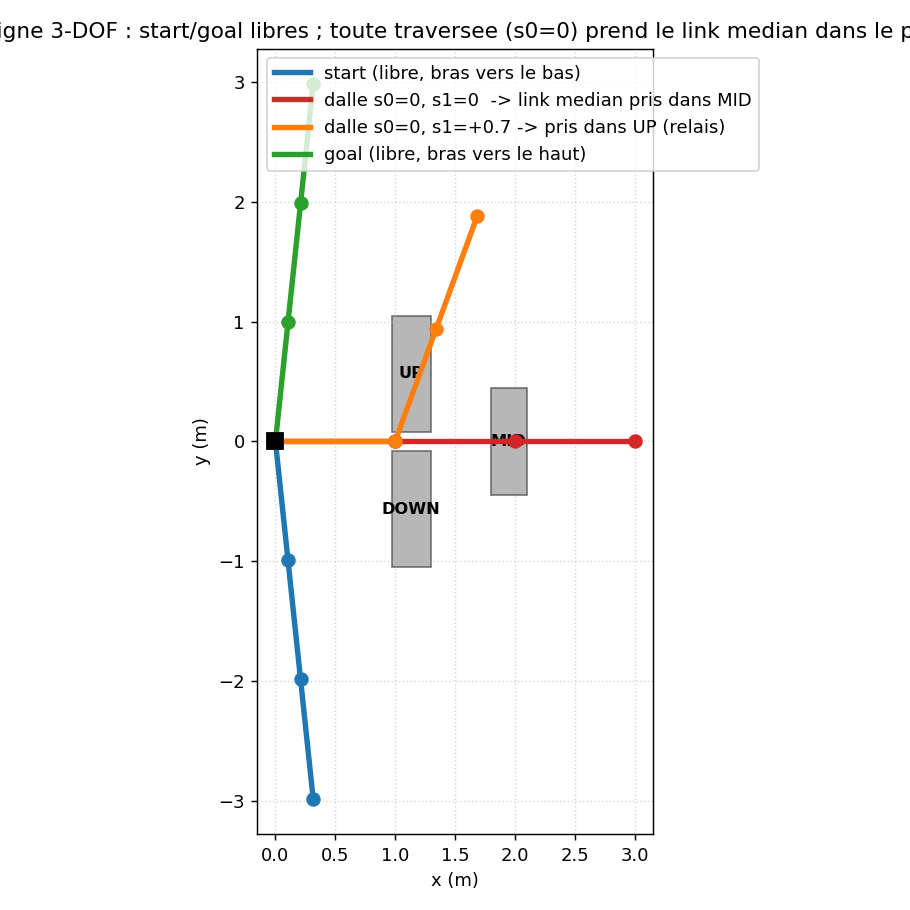
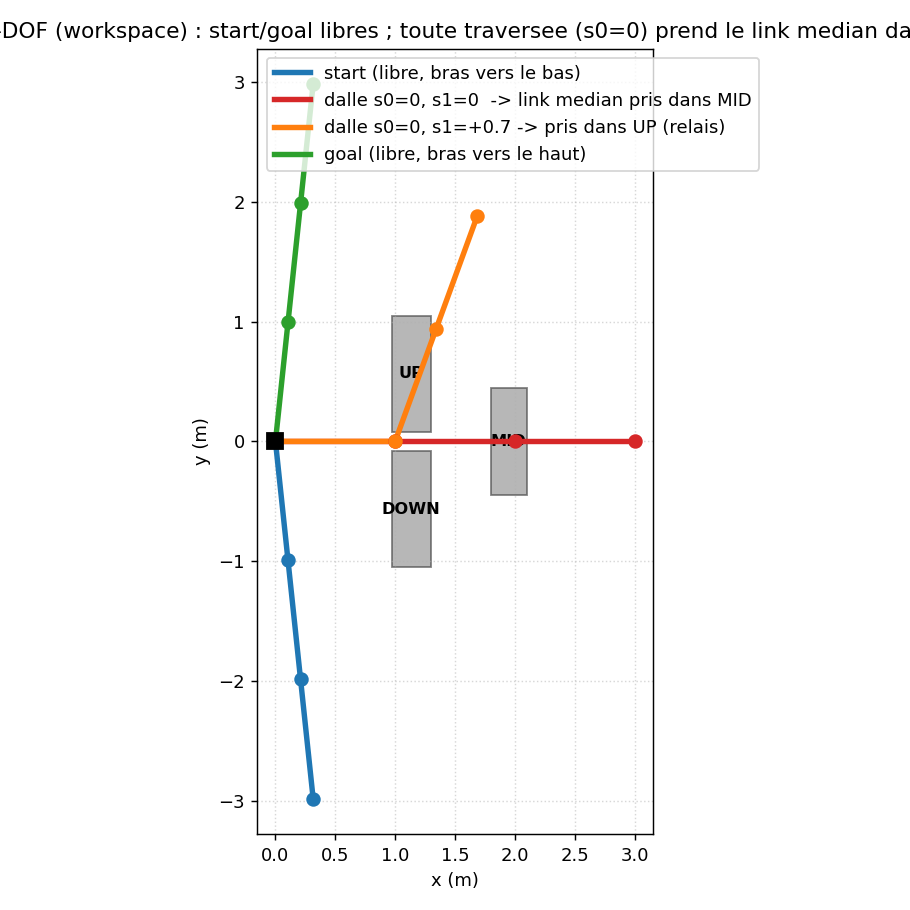
S6: figure C-space du peigne — 'goal libre mais inatteignable' (V3)
viz.save_cspace_figure : coupe (s0,s1) de l'espace des configs, collision en gris,
dalle |phi|<=delta en or, start/goal marqués. Sur le peigne, un mur de collision
plein a s0~=0 traverse toute la boite et separe start (gauche) de goal (droite) ->
montre directement la deconnexion (goal libre mais inatteignable). s2 passif: la
coupe vaut pour tout s2. Ajoutee a scripts/make_scene_figures.py.

Changed region(s): [[0.0, 0.0, 1.0, 0.0615]]

diff --git a/certified-noplan/src/cnp/viz.py b/certified-noplan/src/cnp/viz.py
@@ -107,6 +107,63 @@ def save_planar_figure(scene: _cert.Scene, path: str, poses=None, title=None):
     return path
 
 
+def save_cspace_figure(scene: _cert.Scene, oracle, path, axes=(0, 1), n=140,
+                       fixed=None, title=None):
+    """Configuration-space figure (the view that shows 'goal free but UNREACHABLE'):
+    a 2-D slice over two s-axes, collision shaded grey, the slab ``{|phi|<=delta}``
+    in gold, start (★) and goal (✚) marked. When the slab is a full COLLISION WALL
+    spanning the box between start and goal, they sit in different free components —
+    no continuous free path connects them. That separation IS the disconnection the
+    certificate proves; here the eye can see it (the certificate, not the eye, is the
+    proof — CLAUDE.md rule 11).
+
+    ``oracle(s)`` is the collision predicate (e.g. ``scenes.planar_collision_oracle``);
+    ``axes`` picks the two plotted s-variables; ``fixed`` sets the others (default 0)."""
+    import matplotlib
+    matplotlib.use("Agg")
+    import matplotlib.pyplot as plt
+
+    i, j = axes
+    fixed = fixed or {}
+    (xlo, xhi) = (float(scene.box[i][0]), float(scene.box[i][1]))
+    (ylo, yhi) = (float(scene.box[j][0]), float(scene.box[j][1]))
+    xs = np.linspace(xlo, xhi, n)
+    ys = np.linspace(ylo, yhi, n)
+    grid = np.zeros((n, n))
+    s = np.zeros(scene.robot.n)
+    for k, v in fixed.items():
+        s[k] = v
+    for a, sx in enumerate(xs):
+        for b, sy in enumerate(ys):
+            s[i], s[j] = sx, sy
+            grid[b, a] = 1.0 if oracle(s) else 0.0
+
+    fig, ax = plt.subplots(figsize=(7.5, 6.5))
+    ax.imshow(grid, origin="lower", extent=[xlo, xhi, ylo, yhi], aspect="auto",
+              cmap="Greys", vmin=0, vmax=1.6, alpha=0.85)        # grey = collision
+
+    # slab |phi| <= delta: when phi = s_i (the relay barrier), it is the vertical
+    # band |s_i| <= delta on this slice — a full-height COLLISION WALL if disconnected.
+    delta = float(scene.delta)
+    phi_is_axis_i = set(scene.phi) == {tuple(1 if t == i else 0 for t in range(scene.robot.n))}
+    if phi_is_axis_i:
+        ax.axvspan(-delta, delta, color="gold", alpha=0.35, zorder=2,
+                   label=f"dalle |phi|<={scene.delta}")
+
+    st = [float(v) for v in scene.start_s]
+    go = [float(v) for v in scene.goal_s]
+    ax.plot(st[i], st[j], "*", color="#1f77b4", ms=20, mec="k", zorder=5, label="start")
+    ax.plot(go[i], go[j], "P", color="#2ca02c", ms=16, mec="k", zorder=5, label="goal")
+    ax.set_xlabel(f"s{i}")
+    ax.set_ylabel(f"s{j}")
+    ax.legend(loc="upper right", framealpha=0.95)
+    ax.set_title(title or "C-space slice (grey = collision)")
+    fig.tight_layout()
+    fig.savefig(path, dpi=130)
+    plt.close(fig)
+    return path
+
+
 _CONFIG_COLOUR = {"start": 0x1f77b4, "goal": 0x2ca02c}   # start = blue, goal = green
 
 

diff --git a/certified-noplan/scripts/make_scene_figures.py b/certified-noplan/scripts/make_scene_figures.py
@@ -19,22 +19,35 @@ SCENES = os.path.join(HERE, "..", "scenes")
 OUT = os.path.join(HERE, "..", "benchmarks", "figures")
 
 
-def peigne_figure():
+def peigne_figures():
     scene, _ = scenes.load(os.path.join(SCENES, "S2_peigne.yaml"))
+    os.makedirs(OUT, exist_ok=True)
+
+    # (a) Workspace view: WHY any crossing is blocked (the middle link enters the comb).
     poses = [
         ("start (libre, bras vers le bas)", scene.start_s, "#1f77b4"),
         ("dalle s0=0, s1=0  -> link median pris dans MID", [0.0, 0.0, 0.0], "#d62728"),
         ("dalle s0=0, s1=+0.7 -> pris dans UP (relais)", [0.0, 0.7, 0.0], "#ff7f0e"),
         ("goal (libre, bras vers le haut)", scene.goal_s, "#2ca02c"),
     ]
-    os.makedirs(OUT, exist_ok=True)
-    path = os.path.join(OUT, "scene_S2_peigne.png")
+    p1 = os.path.join(OUT, "scene_S2_peigne.png")
     viz.save_planar_figure(
-        scene, path, poses=poses,
-        title="S2 peigne 3-DOF : start/goal libres ; toute traversee (s0=0) "
-              "prend le link median dans le peigne")
-    print("written", os.path.normpath(path))
+        scene, p1, poses=poses,
+        title="S2 peigne 3-DOF (workspace) : start/goal libres ; toute traversee "
+              "(s0=0) prend le link median dans le peigne")
+    print("written", os.path.normpath(p1))
+
+    # (b) C-space view: THAT goal is free but UNREACHABLE — a solid collision wall at
+    # s0~=0 spanning the box separates start (left) from goal (right). s2 is passive,
+    # so the (s0,s1) slice at s2=0 represents every s2.
+    oracle = scenes.planar_collision_oracle(scene, n_samples=25)
+    p2 = os.path.join(OUT, "scene_S2_peigne_cspace.png")
+    viz.save_cspace_figure(
+        scene, oracle, p2, axes=(0, 1), n=140, fixed={2: 0.0},
+        title="S2 peigne (C-space s0,s1 ; s2 passif) : mur de collision a s0=0 "
+              "-> goal libre mais INATTEIGNABLE depuis start")
+    print("written", os.path.normpath(p2))
 
 
 if __name__ == "__main__":
-    peigne_figure()
+    peigne_figures()

diff --git a/certified-noplan/JOURNAL.md b/certified-noplan/JOURNAL.md
@@ -770,10 +770,13 @@ puis scenes.py + YAML + `cnp show` + `cnp certify` + adversarial initial
   Meshcat (bleu/vert) ; URL retournée. + `save_planar_figure` — **figure 2D vue de
   dessus** (dents en rectangles, poses du bras en polylignes épaisses), bien plus
   lisible que la 3D pour une scène planaire ; `cnp show --png` la produit, et
-  `scripts/make_scene_figures.py` (dans `make figures`) génère
-  `benchmarks/figures/scene_S2_peigne.png` avec start/goal libres + 2 poses
-  in-dalle (link médian pris dans MID puis UP — le relais). (viz complet `cnp viz
-  <cert>` = S11.)
+  `scripts/make_scene_figures.py` (dans `make figures`) génère deux figures :
+  `scene_S2_peigne.png` (WORKSPACE — start/goal libres + 2 poses in-dalle, link
+  médian pris dans MID puis UP, le relais) et `scene_S2_peigne_cspace.png`
+  (**C-space (s0,s1), s2 passif** — `save_cspace_figure` : collision en gris, dalle
+  en or, ★ start / ✚ goal ; un **mur de collision plein à s0≈0** sépare start
+  (gauche) de goal (droite) ⟹ la figure « goal libre mais INATTEIGNABLE » que la
+  V3 demandait). (viz complet `cnp viz <cert>` = S11.)
 - **Scènes** : `scenes/S1_relais.yaml` (E3, 46 feuilles, régression rapide),
   `scenes/S2_peigne.yaml` (**peigne 3-DOF planaire**), `scenes/S2b_spatial3.yaml`
   (3-DOF spatiale → ENGINE-PROOF).
